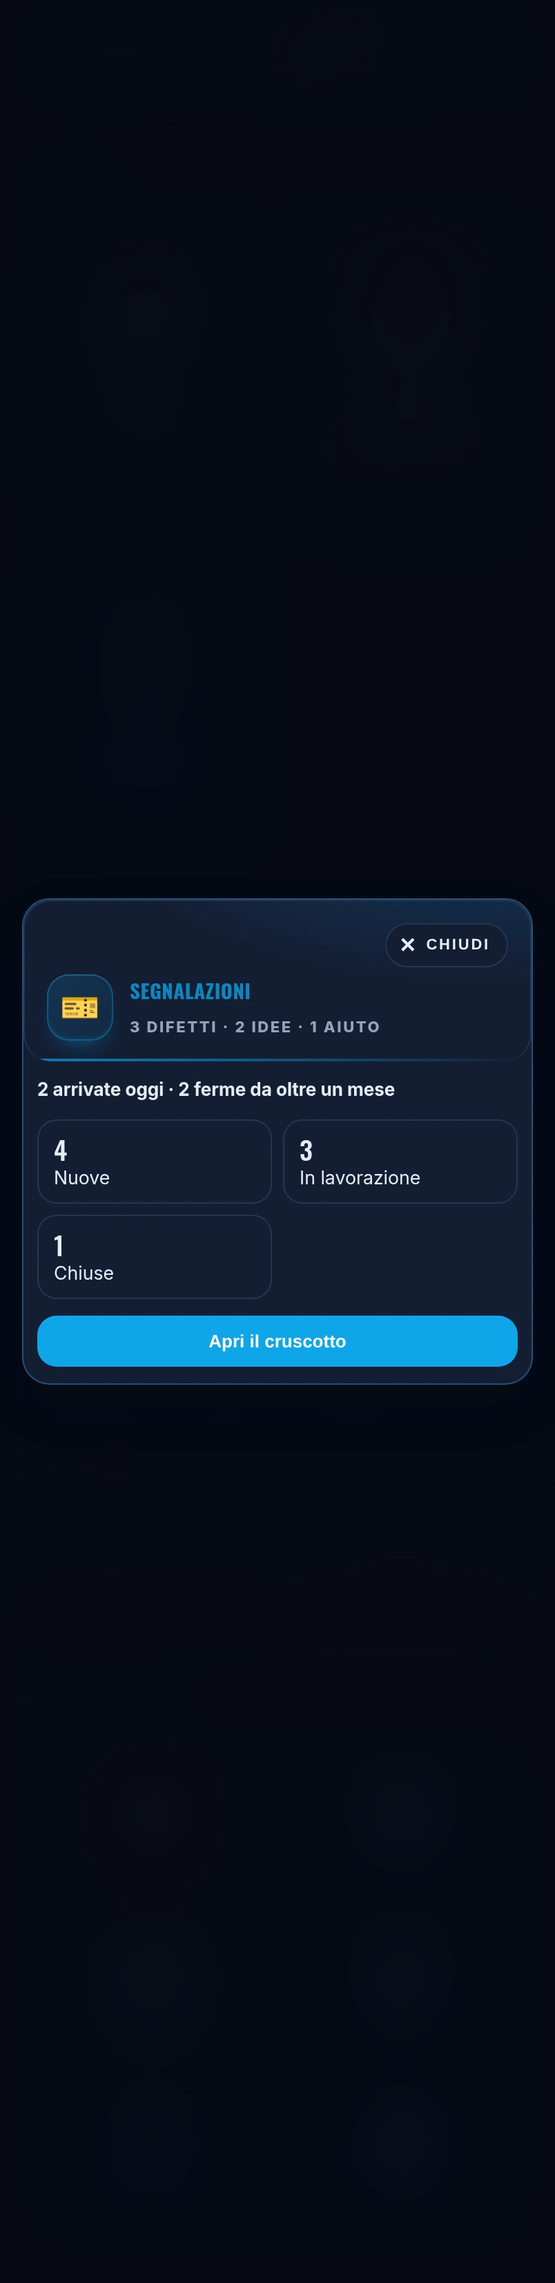
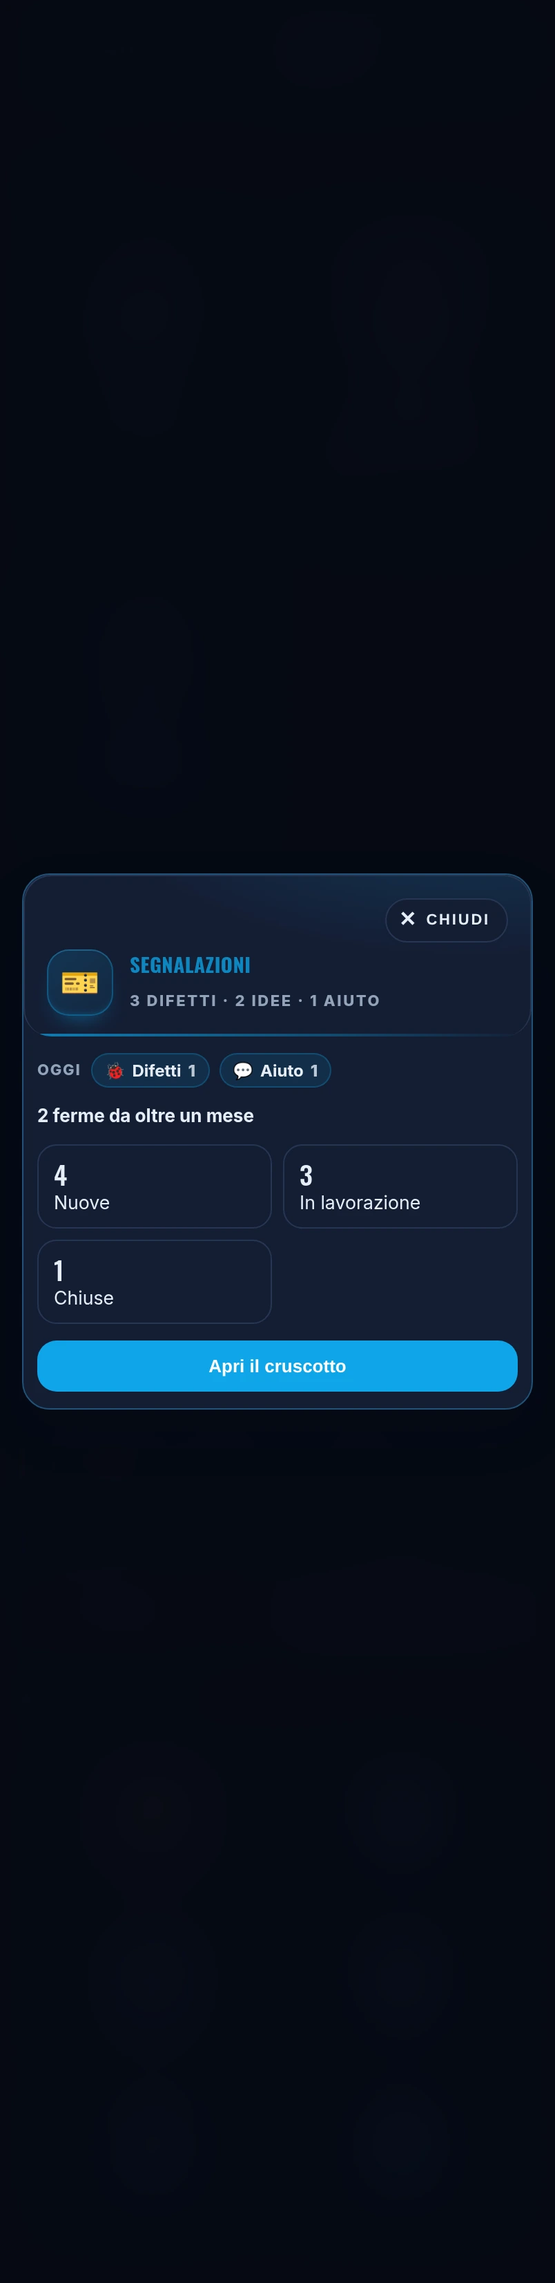
Oggi, per genere: cosa e' arrivato, non solo quanto
«Oggi: 🐞 Difetti 1 · 💬 Aiuto 1». Sapere che ne sono arrivate due non dice se
la giornata e' andata storta o se qualcuno ha avuto due idee: un difetto e
un'idea chiedono cose diverse a chi legge, e il numero da solo le fa sembrare
la stessa cosa.

Il conto sta **dopo** il nome, come sui filtri del cruscotto, e non prima: «1
difetti» e' sbagliato in italiano, in francese, in tedesco e in mezza Europa, e
mettere il numero in coda toglie il problema alla radice invece di raddoppiare
tredici stringhe per il singolare. Le etichette poi ci sono gia' nel corpus —
Difetti, Idee, Aiuto, Oggi — quindi non se ne aggiunge nessuna.

Anche le arrivate oggi **senza tipo** hanno la loro pastiglia, e non e' un
dettaglio: le issue aperte a mano su GitHub un tipo non ce l'hanno, e sommare i
tre generi noti fermandosi li' avrebbe scritto «oggi non e' arrivato niente» in
una giornata in cui ne erano arrivate due. Il conto grande avrebbe detto due e
l'elenco sotto zero, nella stessa finestra — lo stesso genere di contraddizione
che stamattina diceva «qui non c'e' ancora niente» sopra sette segnalazioni.
Una prova pretende che i generi sommati tornino il conto di oggi, cosi' quella
strada resta chiusa anche a chi domani aggiungera' un tipo nuovo.

Una stringa nuova in tutte e tredici le lingue, due rimaste orfane tolte. 1898
prove frontend, 202 pytest, ruff e i controlli i18n verdi.

Claude-Session: https://claude.ai/code/session_01UvRdWRQ9rj1LRuq56iPdpz

Changed region(s): [[0.0311, 0.3741, 0.9639, 0.6235]]

diff --git a/custom_components/dashboardmodern/frontend/src/sections/home-widgets-section.js b/custom_components/dashboardmodern/frontend/src/sections/home-widgets-section.js
@@ -4377,22 +4377,42 @@ function detailBody(widget, states) {
      * nessuno le abbia piu' guardate. La seconda e' quella che pesa — un conto
      * fermo non si muove da solo, e in una colonna di numeri passerebbe
      * inosservato proprio perche' non cambia mai. */
-    const pezzi = [];
-    if (conto.oggi) pezzi.push(t(`${conto.oggi} arrivate oggi`, `${conto.oggi} arrived today`));
-    if (conto.vecchie) {
-      pezzi.push(
-        t(`${conto.vecchie} ferme da oltre un mese`, `${conto.vecchie} stuck for over a month`),
-      );
-    }
-    const lettura = pezzi.length
-      ? pezzi.join("  ·  ")
-      : t("Niente di nuovo oggi, e niente di fermo.", "Nothing new today, nothing stuck.");
+    /* Cosa e' arrivato oggi, per genere. Sapere che ne sono arrivate due non
+     * dice se la giornata e' andata storta o se qualcuno ha avuto due idee: un
+     * difetto e un'idea chiedono cose diverse a chi legge.
+     *
+     * Il conto sta dopo il nome, come sui filtri del cruscotto, e non prima:
+     * «1 difetti» sarebbe sbagliato in italiano e in mezza Europa, e mettere
+     * il numero in coda toglie il problema invece di raddoppiare le stringhe
+     * per il singolare. */
+    const oggiPerTipo = conto.oggiPerTipo || {};
+    const generi = [
+      ["bug", "🐞", t("Difetti", "Bugs")],
+      ["feature", "✨", t("Idee", "Ideas")],
+      ["assistenza", "💬", t("Aiuto", "Help")],
+      ["senza", "•", t("Senza tipo", "Untyped")],
+    ].filter(([id]) => Number(oggiPerTipo[id]) > 0);
+    const oggiMarkup = generi.length
+      ? `<div class="dm-w-oggi"><span class="dm-w-oggi-lbl">${esc(t("Oggi", "Today"))}</span>${generi
+          .map(
+            ([id, icona, nome]) =>
+              `<span class="dm-w-genere"><span aria-hidden="true">${icona}</span>${esc(
+                nome,
+              )}<b>${Number(oggiPerTipo[id])}</b></span>`,
+          )
+          .join("")}</div>`
+      : `<p class="dm-w-lettura">${esc(t("Oggi non e' arrivato niente.", "Nothing came in today."))}</p>`;
+    const ferme = conto.vecchie
+      ? `<p class="dm-w-lettura">${esc(
+          t(`${conto.vecchie} ferme da oltre un mese`, `${conto.vecchie} stuck for over a month`),
+        )}</p>`
+      : "";
     const righe = [
       [t("Nuove", "New"), conto.nuove],
       [t("In lavorazione", "In progress"), conto.inLavorazione],
       [t("Chiuse", "Closed"), conto.chiuse],
     ];
-    return `<p class="dm-w-lettura">${esc(lettura)}</p>
+    return `${oggiMarkup}${ferme}
       <div class="dm-w-caselle">${righe
         .map(
           ([nome, quante]) =>
@@ -5621,6 +5641,20 @@ html[data-theme="dark"] #dm-widget-popup .dm-widget-detail .dm-w-close:hover{col
 #dm-widget-popup .dm-w-lettura{
   margin:0 0 10px;font-size:13px;font-weight:700;
   color:var(--text,#0f172a);line-height:1.35}
+/* Cosa e' arrivato oggi: l'etichetta a sinistra, poi una pastiglia per genere
+   con il suo conto in coda al nome — «Difetti 1», come i filtri del cruscotto,
+   che toglie di mezzo il singolare e il plurale. */
+#dm-widget-popup .dm-w-oggi{
+  display:flex;flex-wrap:wrap;align-items:center;gap:7px;margin:0 0 10px}
+#dm-widget-popup .dm-w-oggi-lbl{
+  font-size:11px;font-weight:800;letter-spacing:.08em;text-transform:uppercase;
+  color:var(--text-dim,#64748b)}
+#dm-widget-popup .dm-w-genere{
+  display:inline-flex;align-items:center;gap:5px;padding:4px 9px;border-radius:50px;
+  font-size:12px;font-weight:700;color:var(--text,#0f172a);
+  background:color-mix(in srgb,var(--dm-widget-accent,#0ea5e9) 12%,transparent);
+  border:1px solid color-mix(in srgb,var(--dm-widget-accent,#0ea5e9) 26%,transparent)}
+#dm-widget-popup .dm-w-genere b{opacity:.8}
 #dm-widget-popup .dm-w-porta{
   width:100%;margin-top:10px;padding:11px 14px;border:0;border-radius:14px;
   cursor:pointer;font-size:13px;font-weight:800;color:#fff;

diff --git a/custom_components/dashboardmodern/frontend/tests/segnalazioni-section.test.js b/custom_components/dashboardmodern/frontend/tests/segnalazioni-section.test.js
@@ -622,6 +622,7 @@ test("il sommario conta quello che resta da lavorare, non tutto", () => {
       assert.deepEqual(sommarioConsole(), {
         // Senza data non si conta ne' fra le nuove di oggi ne' fra le ferme.
         oggi: 0,
+        oggiPerTipo: { bug: 0, feature: 0, assistenza: 0, senza: 0 },
         vecchie: 0,
         quante: 3,
         nuove: 2,
@@ -705,4 +706,50 @@ test("«oggi» regge il giorno in cui cambia l'ora", () => {
     if (prima === undefined) delete process.env.TZ;
     else process.env.TZ = prima;
   }
+});
+
+test("il sommario dice di che genere sono quelle di oggi", () => {
+  const oggi = new Date().toISOString();
+  conLaCoda(
+    [
+      inCoda({ number: 1, type: "bug", state: "inviato", created_at: oggi }),
+      inCoda({ number: 2, type: "bug", state: "inviato", created_at: oggi }),
+      inCoda({ number: 3, type: "feature", state: "inviato", created_at: oggi }),
+      // Aperta a mano su GitHub, senza tipo: ha un posto anche lei.
+      inCoda({ number: 4, type: "", state: "inviato", created_at: oggi }),
+      // Di ieri: non entra in nessun genere di oggi.
+      inCoda({
+        number: 5,
+        type: "assistenza",
+        state: "inviato",
+        created_at: new Date(Date.now() - 2 * 86400000).toISOString(),
+      }),
+    ],
+    true,
+    () => {
+      const conto = sommarioConsole();
+      assert.equal(conto.oggi, 4);
+      assert.deepEqual(conto.oggiPerTipo, { bug: 2, feature: 1, assistenza: 0, senza: 1 });
+    },
+  );
+});
+
+test("i generi di oggi tornano il conto di oggi, senza perderne per strada", () => {
+  /* Sommare i tre tipi noti e fermarsi li' vorrebbe dire dire «oggi niente» in
+   * una giornata di sole issue aperte a mano su GitHub, che un tipo non ce
+   * l'hanno: il conto grande direbbe due e l'elenco sotto zero. */
+  const oggi = new Date().toISOString();
+  conLaCoda(
+    [
+      inCoda({ number: 1, type: "", state: "inviato", created_at: oggi }),
+      inCoda({ number: 2, type: "boh", state: "inviato", created_at: oggi }),
+    ],
+    true,
+    () => {
+      const conto = sommarioConsole();
+      const somma = Object.values(conto.oggiPerTipo).reduce((a, b) => a + b, 0);
+      assert.equal(somma, conto.oggi, "i generi non tornano il conto di oggi");
+      assert.equal(conto.oggiPerTipo.senza, 2);
+    },
+  );
 });

diff --git a/custom_components/dashboardmodern/frontend/src/sections/segnalazioni-section.js b/custom_components/dashboardmodern/frontend/src/sections/segnalazioni-section.js
@@ -723,6 +723,10 @@ const CODA_FRESCA = 10 * 60 * 1000;
  * ha piu' guardato — ed e' quella che il cruscotto deve far notare. */
 const GIORNI_VECCHIA = 30;
 
+/* I tipi che un nome ce l'hanno. Quello che non e' fra questi non e' un errore:
+ * e' una issue aperta a mano su GitHub, dove il tipo non si scrive. */
+const TIPI_NOTI = ["bug", "feature", "assistenza"];
+
 /* Il giorno di un istante nel fuso di chi guarda, come chiave.
  *
  * «Oggi» si decide confrontando due date di calendario, non due numeri di
@@ -747,13 +751,27 @@ export function sommarioConsole() {
   /* La soglia delle ferme e' una durata, non un confine di calendario: qui i
    * millisecondi vanno bene, ed e' il motivo per cui «oggi» invece no. */
   const limite = adesso - GIORNI_VECCHIA * 86400000;
+  const diOggi = state.queue.filter((ticket) => {
+    const quando = nate(ticket);
+    return Number.isFinite(quando) && giornoDi(quando) === oggi;
+  });
   return {
     /* Chi non porta la data non si conta ne' fra le nuove di oggi ne' fra le
      * ferme: non sapere quando e' nata non la rende vecchia. */
-    oggi: state.queue.filter((ticket) => {
-      const quando = nate(ticket);
-      return Number.isFinite(quando) && giornoDi(quando) === oggi;
-    }).length,
+    oggi: diOggi.length,
+    /* Di che genere sono quelle di oggi. Sapere che ne sono arrivate due non
+     * dice se la giornata e' andata storta o se qualcuno ha avuto due idee:
+     * un difetto e un'idea chiedono cose diverse a chi legge. */
+    oggiPerTipo: {
+      bug: diOggi.filter((ticket) => clean(ticket.type) === "bug").length,
+      feature: diOggi.filter((ticket) => clean(ticket.type) === "feature").length,
+      assistenza: diOggi.filter((ticket) => clean(ticket.type) === "assistenza").length,
+      /* Le arrivate oggi senza tipo hanno un posto anche loro. Sommare i tre
+       * generi e fermarsi li' vorrebbe dire dire «oggi niente» in una giornata
+       * in cui sono arrivate due issue aperte a mano su GitHub, che un tipo
+       * non ce l'hanno: il conto grande direbbe due e l'elenco sotto zero. */
+      senza: diOggi.filter((ticket) => !TIPI_NOTI.includes(clean(ticket.type))).length,
+    },
     vecchie: daLavorare.filter((ticket) => {
       const quando = nate(ticket);
       return Number.isFinite(quando) && quando < limite;

diff --git a/custom_components/dashboardmodern/frontend/src/i18n/source-index.js b/custom_components/dashboardmodern/frontend/src/i18n/source-index.js
@@ -266,7 +266,6 @@ export const SOURCE_INDEX = Object.freeze({
   "${conto.assistenza} aiuto": "${conto.assistenza} help",
   "${conto.bug} difetti": "${conto.bug} bugs",
   "${conto.feature} idee": "${conto.feature} ideas",
-  "${conto.oggi} arrivate oggi": "${conto.oggi} arrived today",
   "${conto.vecchie} ferme da oltre un mese": "${conto.vecchie} stuck for over a month",
   "${counts.mapped} su ${counts.total} mappate": "${counts.mapped} of ${counts.total} mapped",
   "${daFare} da fare": "${daFare} to do",
@@ -1403,7 +1402,6 @@ export const SOURCE_INDEX = Object.freeze({
   "Neutro": "Neutral",
   "Niente con questo filtro.": "Nothing under this filter.",
   "Niente da lavorare": "Nothing to work on",
-  "Niente di nuovo oggi, e niente di fermo.": "Nothing new today, nothing stuck.",
   "Niente di questo tipo, qui.": "Nothing of this kind here.",
   "Niente in programma": "Nothing scheduled",
   "Niente in programma questo giorno": "Nothing scheduled that day",
@@ -1473,6 +1471,7 @@ export const SOURCE_INDEX = Object.freeze({
   "oggi": "today",
   "Oggi": "Today",
   "OGGI": "TODAY",
+  "Oggi non e' arrivato niente.": "Nothing came in today.",
   "Ogni carico qui sotto è un cerchio del flusso Energia, sotto Casa, nell'ordine di questa lista. Quello che scrivi qui è quello che vedi nel flusso, e i dispositivi che gli assegni sono quelli che compaiono toccando il cerchio.": "Every load below is a circle of the Energy flow, under Home, in the order of this list. What you write here is what the flow shows, and the devices you file under it are the ones that appear when you tap the circle.",
   "Ogni casella compilata deve essere un'entità cover.* o switch.*.": "Every filled box must be a cover.* or switch.* entity.",
   "ogni giorno alle": "every day at",

diff --git a/custom_components/dashboardmodern/frontend/src/i18n/hi.js b/custom_components/dashboardmodern/frontend/src/i18n/hi.js
@@ -15,7 +15,7 @@ export default Object.freeze({
   "Any type": "कोई भी प्रकार",
   "Came from a dashboard: the reply goes back into it": "एक डैशबोर्ड से आई: जवाब उसी में वापस जाता है",
   "Everything on the repository": "रिपॉज़िटरी में जो कुछ भी है",
-  "Nothing new today, nothing stuck.": "आज कुछ नया नहीं, कुछ अटका भी नहीं।",
+  "Nothing came in today.": "आज कुछ नहीं आया।",
   "Until you pick the entity this opening is nowhere to be seen: not in the section, not on the tile, and the “in the widget” switch does not appear.": "जब तक आप इकाई नहीं चुनते, यह द्वार कहीं नहीं दिखेगा: न अनुभाग में, न टाइल पर, और «विजेट में» वाला स्विच भी नहीं आएगा।",
   "from a dashboard": "डैशबोर्ड से",
   "from GitHub": "GitHub से",
@@ -275,7 +275,6 @@ export default Object.freeze({
   "${conto.assistenza} help": "${conto.assistenza} मदद",
   "${conto.bug} bugs": "${conto.bug} खराबियाँ",
   "${conto.feature} ideas": "${conto.feature} विचार",
-  "${conto.oggi} arrived today": "आज आईं ${conto.oggi}",
   "${conto.vecchie} stuck for over a month": "एक महीने से अधिक से अटकी ${conto.vecchie}",
   "${counts.mapped} of ${counts.total} mapped": "${counts.total} में से ${counts.mapped} जोड़े गए",
   "${daFare} to do": "${daFare} काम बाकी",

diff --git a/custom_components/dashboardmodern/frontend/src/i18n/ru.js b/custom_components/dashboardmodern/frontend/src/i18n/ru.js
@@ -15,7 +15,7 @@ export default Object.freeze({
   "Any type": "Любой вид",
   "Came from a dashboard: the reply goes back into it": "Пришло с панели: ответ вернётся туда же",
   "Everything on the repository": "Всё, что есть в репозитории",
-  "Nothing new today, nothing stuck.": "Сегодня ничего нового и ничего не стоит.",
+  "Nothing came in today.": "Сегодня ничего не пришло.",
   "Until you pick the entity this opening is nowhere to be seen: not in the section, not on the tile, and the “in the widget” switch does not appear.": "Пока вы не выбрали сущность, этот проём нигде не виден: ни в разделе, ни на плитке, и переключатель «в виджете» не появляется.",
   "from a dashboard": "с панели",
   "from GitHub": "с GitHub",
@@ -275,7 +275,6 @@ export default Object.freeze({
   "${conto.assistenza} help": "${conto.assistenza} помощь",
   "${conto.bug} bugs": "${conto.bug} дефектов",
   "${conto.feature} ideas": "${conto.feature} идей",
-  "${conto.oggi} arrived today": "${conto.oggi} пришло сегодня",
   "${conto.vecchie} stuck for over a month": "${conto.vecchie} стоит больше месяца",
   "${counts.mapped} of ${counts.total} mapped": "Сопоставлено ${counts.mapped} из ${counts.total}",
   "${daFare} to do": "${daFare} в списке",

diff --git a/custom_components/dashboardmodern/frontend/src/i18n/ja.js b/custom_components/dashboardmodern/frontend/src/i18n/ja.js
@@ -15,7 +15,7 @@ export default Object.freeze({
   "Any type": "種類を問わず",
   "Came from a dashboard: the reply goes back into it": "ダッシュボードから届いたもの: 返信はそこに戻ります",
   "Everything on the repository": "リポジトリにあるものすべて",
-  "Nothing new today, nothing stuck.": "今日は新しいものも、滞っているものもありません。",
+  "Nothing came in today.": "今日は何も届いていません。",
   "Until you pick the entity this opening is nowhere to be seen: not in the section, not on the tile, and the “in the widget” switch does not appear.": "エンティティを選ぶまで、この開口部はどこにも表示されません。セクションにもタイルにも出ず、「ウィジェットに表示」のスイッチも現れません。",
   "from a dashboard": "ダッシュボードから",
   "from GitHub": "GitHub から",
@@ -275,7 +275,6 @@ export default Object.freeze({
   "${conto.assistenza} help": "ヘルプ ${conto.assistenza} 件",
   "${conto.bug} bugs": "不具合 ${conto.bug} 件",
   "${conto.feature} ideas": "アイデア ${conto.feature} 件",
-  "${conto.oggi} arrived today": "今日 ${conto.oggi} 件",
   "${conto.vecchie} stuck for over a month": "1か月以上動きのないもの ${conto.vecchie} 件",
   "${counts.mapped} of ${counts.total} mapped": "${counts.total} 件中 ${counts.mapped} 件を対応づけ",
   "${daFare} to do": "未完了 ${daFare} 件",

diff --git a/custom_components/dashboardmodern/frontend/src/i18n/ko.js b/custom_components/dashboardmodern/frontend/src/i18n/ko.js
@@ -15,7 +15,7 @@ export default Object.freeze({
   "Any type": "모든 유형",
   "Came from a dashboard: the reply goes back into it": "대시보드에서 온 것: 답변이 그곳으로 돌아갑니다",
   "Everything on the repository": "저장소에 있는 모든 것",
-  "Nothing new today, nothing stuck.": "오늘은 새 것도, 멈춘 것도 없습니다.",
+  "Nothing came in today.": "오늘은 아무것도 오지 않았습니다.",
   "Until you pick the entity this opening is nowhere to be seen: not in the section, not on the tile, and the “in the widget” switch does not appear.": "엔터티를 고르기 전에는 이 출입구가 어디에도 보이지 않습니다. 섹션에도 타일에도 나오지 않고, '위젯에 표시' 스위치도 나타나지 않습니다.",
   "from a dashboard": "대시보드에서",
   "from GitHub": "GitHub에서",
@@ -275,7 +275,6 @@ export default Object.freeze({
   "${conto.assistenza} help": "도움 ${conto.assistenza}건",
   "${conto.bug} bugs": "결함 ${conto.bug}건",
   "${conto.feature} ideas": "아이디어 ${conto.feature}건",
-  "${conto.oggi} arrived today": "오늘 ${conto.oggi}건",
   "${conto.vecchie} stuck for over a month": "한 달 넘게 멈춘 것 ${conto.vecchie}건",
   "${counts.mapped} of ${counts.total} mapped": "${counts.total}개 중 ${counts.mapped}개 연결됨",
   "${daFare} to do": "할 일 ${daFare}건",

diff --git a/custom_components/dashboardmodern/frontend/src/i18n/ar.js b/custom_components/dashboardmodern/frontend/src/i18n/ar.js
@@ -15,7 +15,7 @@ export default Object.freeze({
   "Any type": "أي نوع",
   "Came from a dashboard: the reply goes back into it": "وردت من لوحة تحكم: يعود الرد إليها",
   "Everything on the repository": "كل ما في المستودع",
-  "Nothing new today, nothing stuck.": "لا جديد اليوم، ولا شيء متوقف.",
+  "Nothing came in today.": "لم يصل شيء اليوم.",
   "Until you pick the entity this opening is nowhere to be seen: not in the section, not on the tile, and the “in the widget” switch does not appear.": "ما دمت لم تختر الكيان فلن يظهر هذا المنفذ في أي مكان: لا في القسم ولا في البطاقة، ولن يظهر مفتاح «في الأداة».",
   "from a dashboard": "من لوحة تحكم",
   "from GitHub": "من GitHub",
@@ -275,7 +275,6 @@ export default Object.freeze({
   "${conto.assistenza} help": "${conto.assistenza} مساعدة",
   "${conto.bug} bugs": "${conto.bug} خلل",
   "${conto.feature} ideas": "${conto.feature} فكرة",
-  "${conto.oggi} arrived today": "${conto.oggi} وردت اليوم",
   "${conto.vecchie} stuck for over a month": "${conto.vecchie} متوقفة منذ أكثر من شهر",
   "${counts.mapped} of ${counts.total} mapped": "تم ربط ${counts.mapped} من ${counts.total}",
   "${daFare} to do": "${daFare} مهام",

diff --git a/custom_components/dashboardmodern/frontend/src/i18n/fr.js b/custom_components/dashboardmodern/frontend/src/i18n/fr.js
@@ -15,7 +15,7 @@ export default Object.freeze({
   "Any type": "Tout type",
   "Came from a dashboard: the reply goes back into it": "Arrivé depuis un tableau de bord : la réponse y retourne",
   "Everything on the repository": "Tout ce qui est sur le dépôt",
-  "Nothing new today, nothing stuck.": "Rien de neuf aujourd'hui, rien en souffrance.",
+  "Nothing came in today.": "Rien n'est arrivé aujourd'hui.",
   "Until you pick the entity this opening is nowhere to be seen: not in the section, not on the tile, and the “in the widget” switch does not appear.": "Tant que tu ne choisis pas l'entité, cette ouverture ne se voit nulle part : ni dans la section, ni sur la tuile, et l'interrupteur « dans le widget » n'apparaît pas.",
   "from a dashboard": "depuis un tableau de bord",
   "from GitHub": "depuis GitHub",
@@ -275,7 +275,6 @@ export default Object.freeze({
   "${conto.assistenza} help": "${conto.assistenza} aide",
   "${conto.bug} bugs": "${conto.bug} défauts",
   "${conto.feature} ideas": "${conto.feature} idées",
-  "${conto.oggi} arrived today": "${conto.oggi} arrivées aujourd'hui",
   "${conto.vecchie} stuck for over a month": "${conto.vecchie} en souffrance depuis plus d'un mois",
   "${counts.mapped} of ${counts.total} mapped": "${counts.mapped} sur ${counts.total} associées",
   "${daFare} to do": "${daFare} à faire",

diff --git a/custom_components/dashboardmodern/frontend/src/i18n/de.js b/custom_components/dashboardmodern/frontend/src/i18n/de.js
@@ -15,7 +15,7 @@ export default Object.freeze({
   "Any type": "Jede Art",
   "Came from a dashboard: the reply goes back into it": "Aus einem Dashboard gekommen: die Antwort geht dorthin zurück",
   "Everything on the repository": "Alles im Repository",
-  "Nothing new today, nothing stuck.": "Heute nichts Neues, nichts liegen geblieben.",
+  "Nothing came in today.": "Heute ist nichts eingegangen.",
   "Until you pick the entity this opening is nowhere to be seen: not in the section, not on the tile, and the “in the widget” switch does not appear.": "Solange du keine Entität wählst, ist diese Öffnung nirgends zu sehen: weder im Bereich noch auf der Kachel, und der Schalter „im Widget“ erscheint nicht.",
   "from a dashboard": "aus einem Dashboard",
   "from GitHub": "von GitHub",
@@ -275,7 +275,6 @@ export default Object.freeze({
   "${conto.assistenza} help": "${conto.assistenza} Hilfe",
   "${conto.bug} bugs": "${conto.bug} Fehler",
   "${conto.feature} ideas": "${conto.feature} Ideen",
-  "${conto.oggi} arrived today": "${conto.oggi} heute eingegangen",
   "${conto.vecchie} stuck for over a month": "${conto.vecchie} seit über einem Monat liegen geblieben",
   "${counts.mapped} of ${counts.total} mapped": "${counts.mapped} von ${counts.total} zugeordnet",
   "${daFare} to do": "${daFare} zu erledigen",

diff --git a/custom_components/dashboardmodern/frontend/src/i18n/nl.js b/custom_components/dashboardmodern/frontend/src/i18n/nl.js
@@ -15,7 +15,7 @@ export default Object.freeze({
   "Any type": "Elk soort",
   "Came from a dashboard: the reply goes back into it": "Gekomen vanaf een dashboard: het antwoord gaat daarheen terug",
   "Everything on the repository": "Alles in de repository",
-  "Nothing new today, nothing stuck.": "Vandaag niets nieuws, en niets blijven liggen.",
+  "Nothing came in today.": "Vandaag is er niets binnengekomen.",
   "Until you pick the entity this opening is nowhere to be seen: not in the section, not on the tile, and the “in the widget” switch does not appear.": "Zolang je geen entiteit kiest is deze opening nergens te zien: niet in de sectie, niet op de tegel, en de schakelaar 'in de widget' verschijnt niet.",
   "from a dashboard": "vanaf een dashboard",
   "from GitHub": "vanaf GitHub",
@@ -275,7 +275,6 @@ export default Object.freeze({
   "${conto.assistenza} help": "${conto.assistenza} hulp",
   "${conto.bug} bugs": "${conto.bug} fouten",
   "${conto.feature} ideas": "${conto.feature} ideeën",
-  "${conto.oggi} arrived today": "${conto.oggi} vandaag binnengekomen",
   "${conto.vecchie} stuck for over a month": "${conto.vecchie} langer dan een maand blijven liggen",
   "${counts.mapped} of ${counts.total} mapped": "${counts.mapped} van ${counts.total} gekoppeld",
   "${daFare} to do": "${daFare} te doen",
